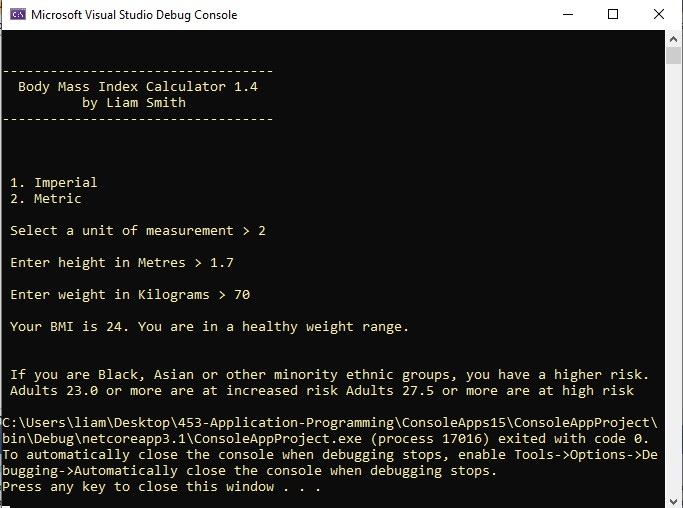
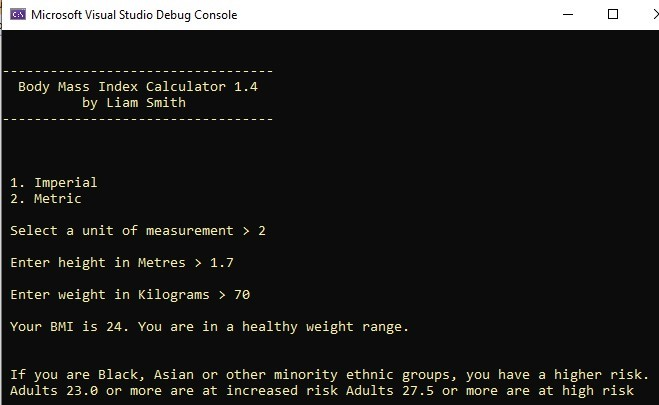
app01 screenshots added

diff --git a/ConsoleAppProject/App02/BmiCalculator.cs b/ConsoleAppProject/App02/BmiCalculator.cs
@@ -47,10 +47,10 @@ namespace ConsoleAppProject.App02
         {
             Console.WriteLine("BNU CO453 Applications Programming 2020-2021!");
             Console.WriteLine();
-            Console.WriteLine("\n----------------------------------");
-            Console.WriteLine("  Body Mass Index Calculator 1.4    ");
-            Console.WriteLine("          by Liam Smith        ");
-            Console.WriteLine("----------------------------------\n");
+            Console.WriteLine("\n------------------------------");
+            Console.WriteLine("  Body Mass Index Calculator ");
+            Console.WriteLine("        by Liam Smith        ");
+            Console.WriteLine("------------------------------\n");
             Console.WriteLine();
         }
 
